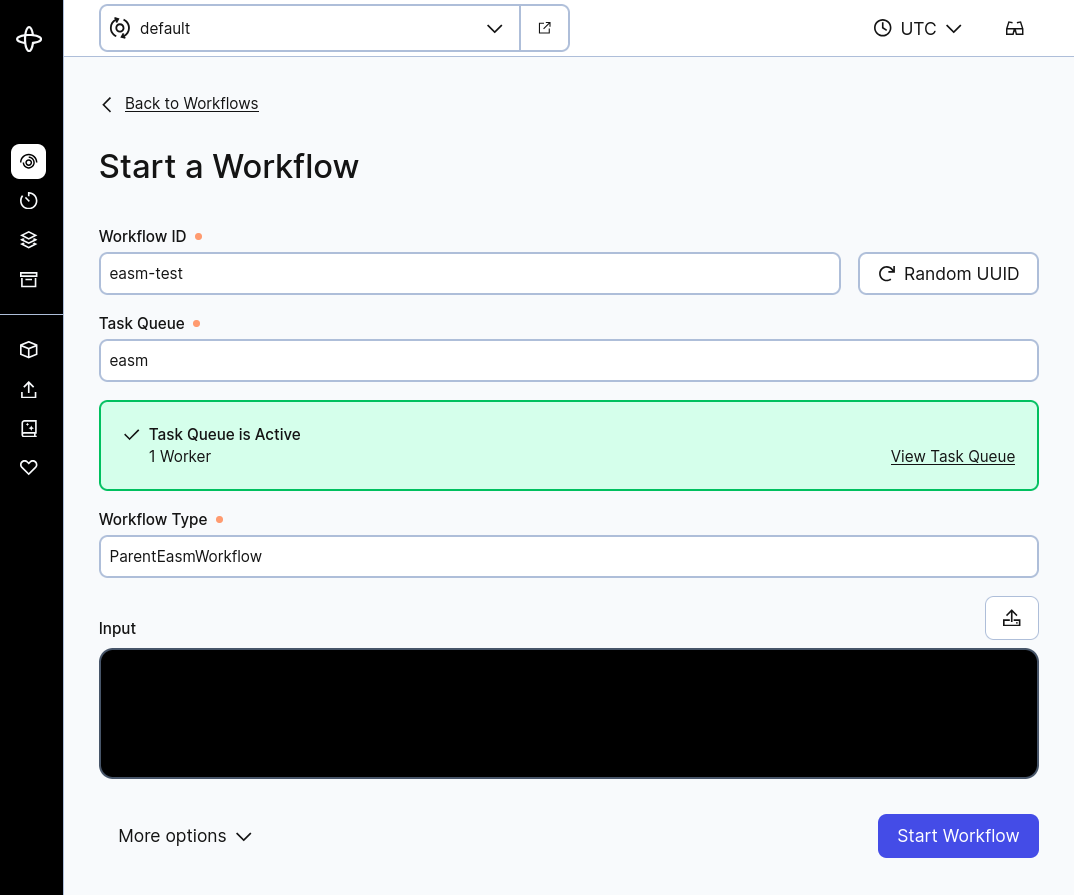
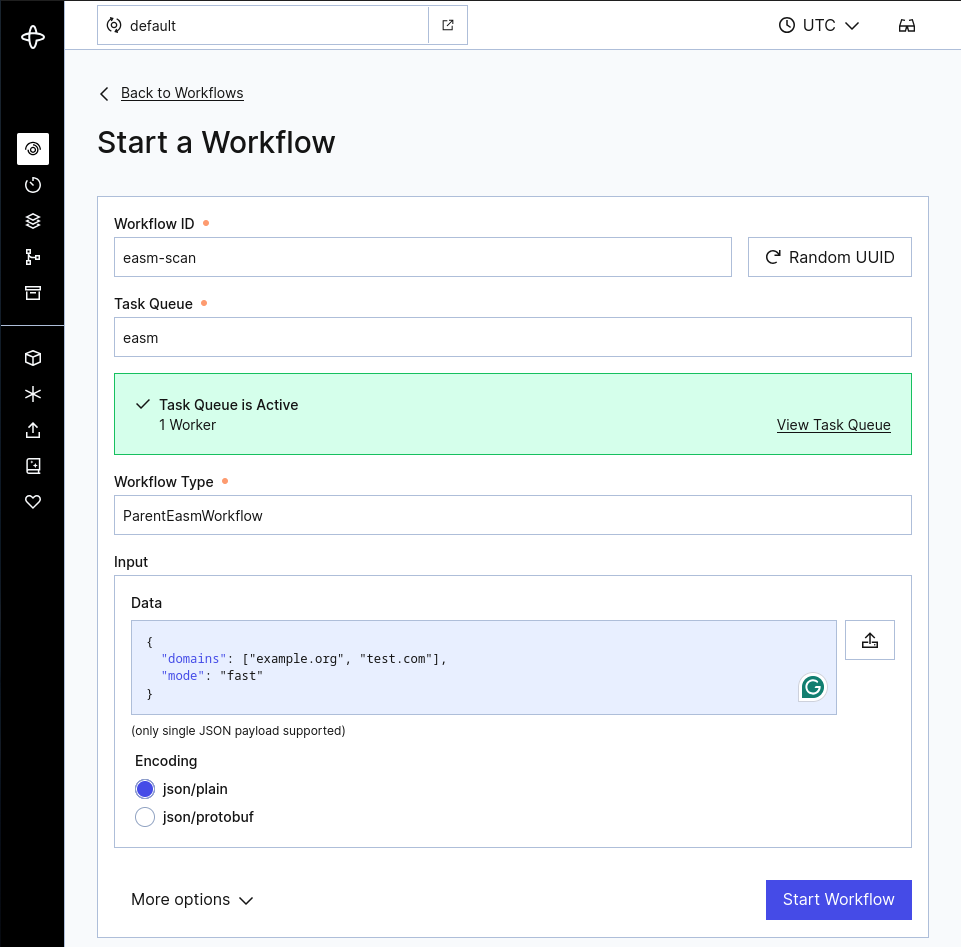
update readme and workflow screenshot

diff --git a/README.md b/README.md
@@ -186,14 +186,39 @@ This is an example of a NEO4J query fetching all IP addresses and their resoluti
 MATCH (ip:IP)-[:RESOLVES_TO]-(d:DomainName) RETURN ip,d
 ```
 
-### Setting up single workflow
-You can create single workflow using Temporal GUI. Click on `Start Workflow` inside of the panel for workflows.
+### Setting up a single workflow
+You can create a single workflow using Temporal GUI. Click on `Start Workflow` inside of the panel for workflows.
 Use arbitrary workflow ID, `easm` as the Task Queue,
-and `ParentEasmWorkflow` as the Workflow Type. The workflow parameters are taken from [config.yaml](docker/config.yaml).
+and `ParentEasmWorkflow` as the Workflow Type.
+
+By default, the workflow parameters are taken from [config.yaml](docker/config.yaml). However, if you want to run a 
+workflow with a different configuration than what was configured when the temporal worker started, you can provide a 
+custom configuration in the input field of the workflow. The input should be in JSON format matching the structure of 
+the `easm_scanner` section from [config.yaml](docker/config.yaml).
+
+For example, to run an EASM scan with different domains:
+```json
+{
+  "domains": ["example.org", "test.com"],
+  "mode": "complete",
+  "threads": 50,
+  "wordlist_path": "/app/temporal/easm/subdomainwordlist.txt"
+}
+```
+
+Or for `fast` mode:
+```json
+{
+  "domains": ["example.org", "test.com"],
+  "mode": "fast"
+}
+```
 
 The correct settings are visualized in the following figure.
 
 ![img.png](assets/workflow.png)
+
+The same applies to other workflows as well (e.g., `NmapBasicWorkflow` and `NmapTopologyWorkflow`).
 
 ### Setting up scheduled workflow
 You can create periodic scheduled scans via Temporal GUI. When you create such a workflow, it calls the same workflow, 
